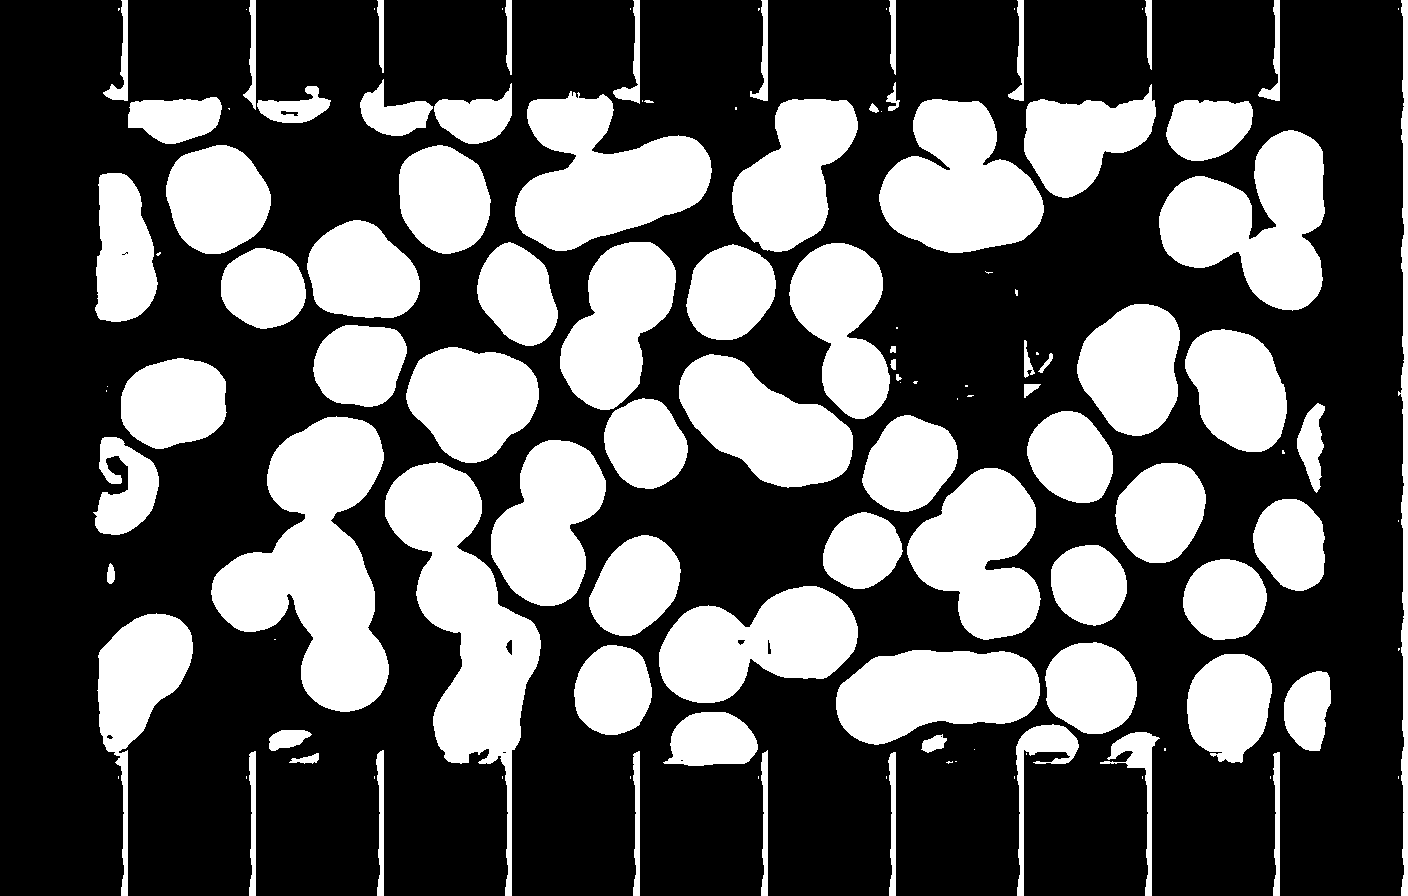
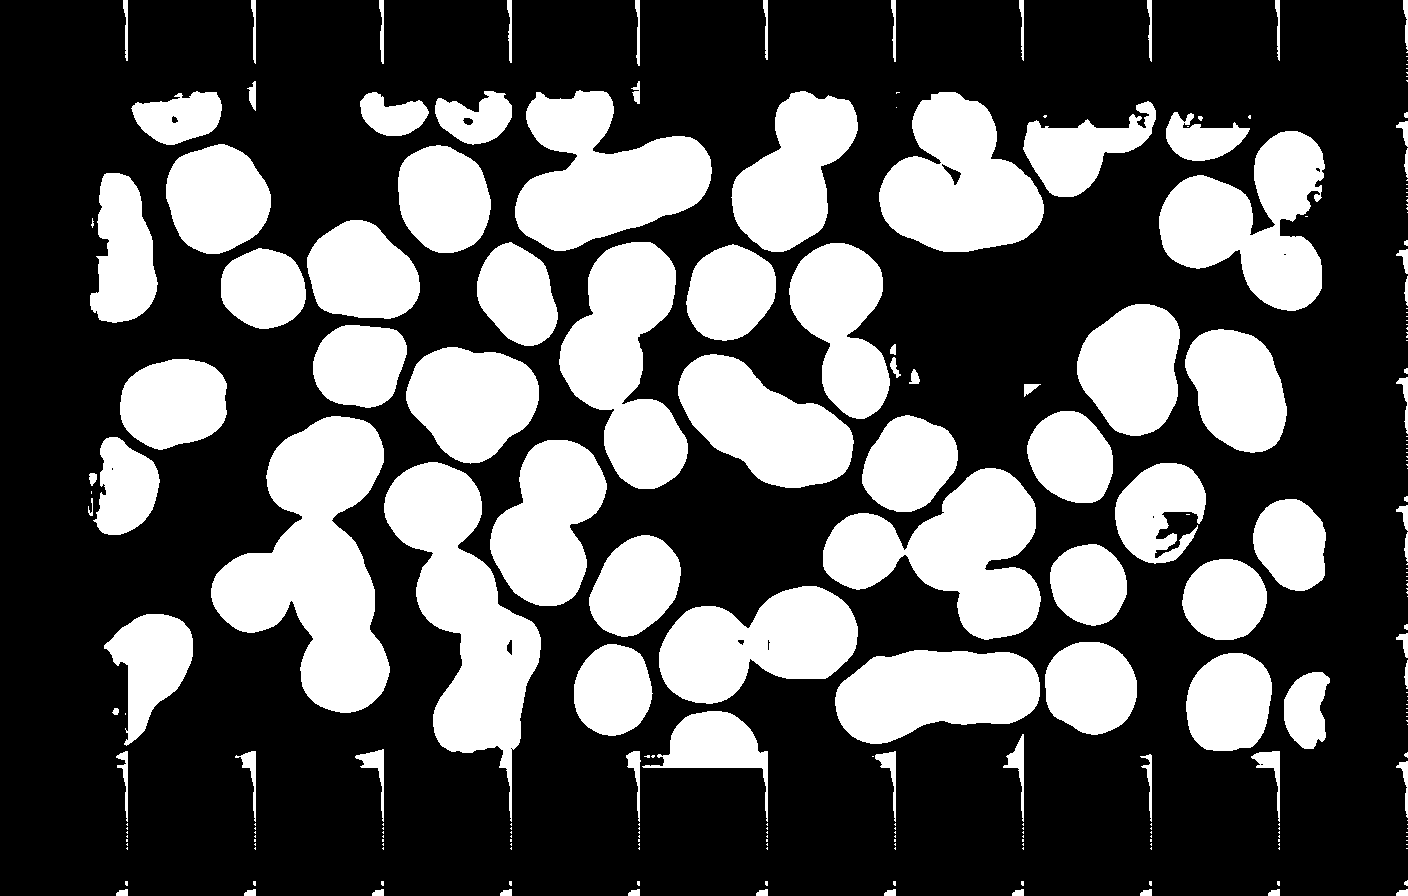
Updated latest results!

diff --git a/src/run.py b/src/run.py
@@ -80,6 +80,10 @@ def train(model_name='mse'):
     np.save(f'models/{model_name}_history.npy', history.history)
 
 
+def normalize(img):
+    return np.array((img - np.min(img)) / (np.max(img) - np.min(img)))
+
+
 # extract number of image chips for an image
 def get_sizes(img,
               padding=padding[1],
@@ -157,17 +161,17 @@ def predict(img='Im037_0.jpg',
     # save predicted mask and edge
     plt.imsave('output/mask.png', new_mask, cmap='gray')
     plt.imsave('output/edge.png', new_edge, cmap='gray')
-    plt.imsave('output/edge-mask.png', new_mask - new_edge, cmap='gray')
+    plt.imsave('output/edge_mask.png', new_mask - new_edge, cmap='gray')
 
     # denoise all the output images
     new_mask = denoise('output/mask.png')
     new_edge = denoise('output/edge.png')
-    edge_mask = denoise('output/edge-mask.png')
+    edge_mask = denoise('output/edge_mask.png')
 
     # save predicted mask and edge after denoising
     plt.imsave('output/mask.png', new_mask, cmap='gray')
     plt.imsave('output/edge.png', new_edge, cmap='gray')
-    plt.imsave('output/edge-mask.png', edge_mask, cmap='gray')
+    plt.imsave('output/edge_mask.png', edge_mask, cmap='gray')
 
     # organize results into one figure
     fig = plt.figure(figsize=(25, 12), dpi=80)
@@ -322,25 +326,26 @@ def distance_transform(img='edge.png'):
     img = cv2.cvtColor(img, cv2.COLOR_BGR2GRAY)
 
     # transorm rgb channels
-    b = cv2.distanceTransform(img, distanceType=cv2.DIST_L2, maskSize=5)
-    g = cv2.distanceTransform(img, distanceType=cv2.DIST_L1, maskSize=5)
-    r = cv2.distanceTransform(img, distanceType=cv2.DIST_C, maskSize=5)
+    b = cv2.distanceTransform(img, distanceType=cv2.DIST_L2, maskSize=0)
+    g = cv2.distanceTransform(img, distanceType=cv2.DIST_L1, maskSize=0)
+    r = cv2.distanceTransform(img, distanceType=cv2.DIST_C, maskSize=0)
     
     # merge the transformed channels back to an image
     img = cv2.merge((b, g, r))
+    img = normalize(img)
 
     # saving image after Component Labeling
-    # plt.imsave('output/distance_transform.png', img, cmap='gray')
+    plt.imsave('output/distance_transform.png', img)
 
 
 # main program
 if __name__ == '__main__':
     # train('mse')
-    # evaluate(model_name='mse')
+    evaluate(model_name='mse')
     predict(model_name='mse')
     threshold(img='mask.png')
     threshold(img='edge.png')
-    threshold(img='edge-mask.png')
-    distance_transform(img='edge.png')
+    threshold(img='edge_mask.png')
+    distance_transform(img='threshold_edge_mask.png')
     hough_transform(img='edge.png')
-    component_labeling(img='edge-mask.png')
+    component_labeling(img='distance_transform.png')
